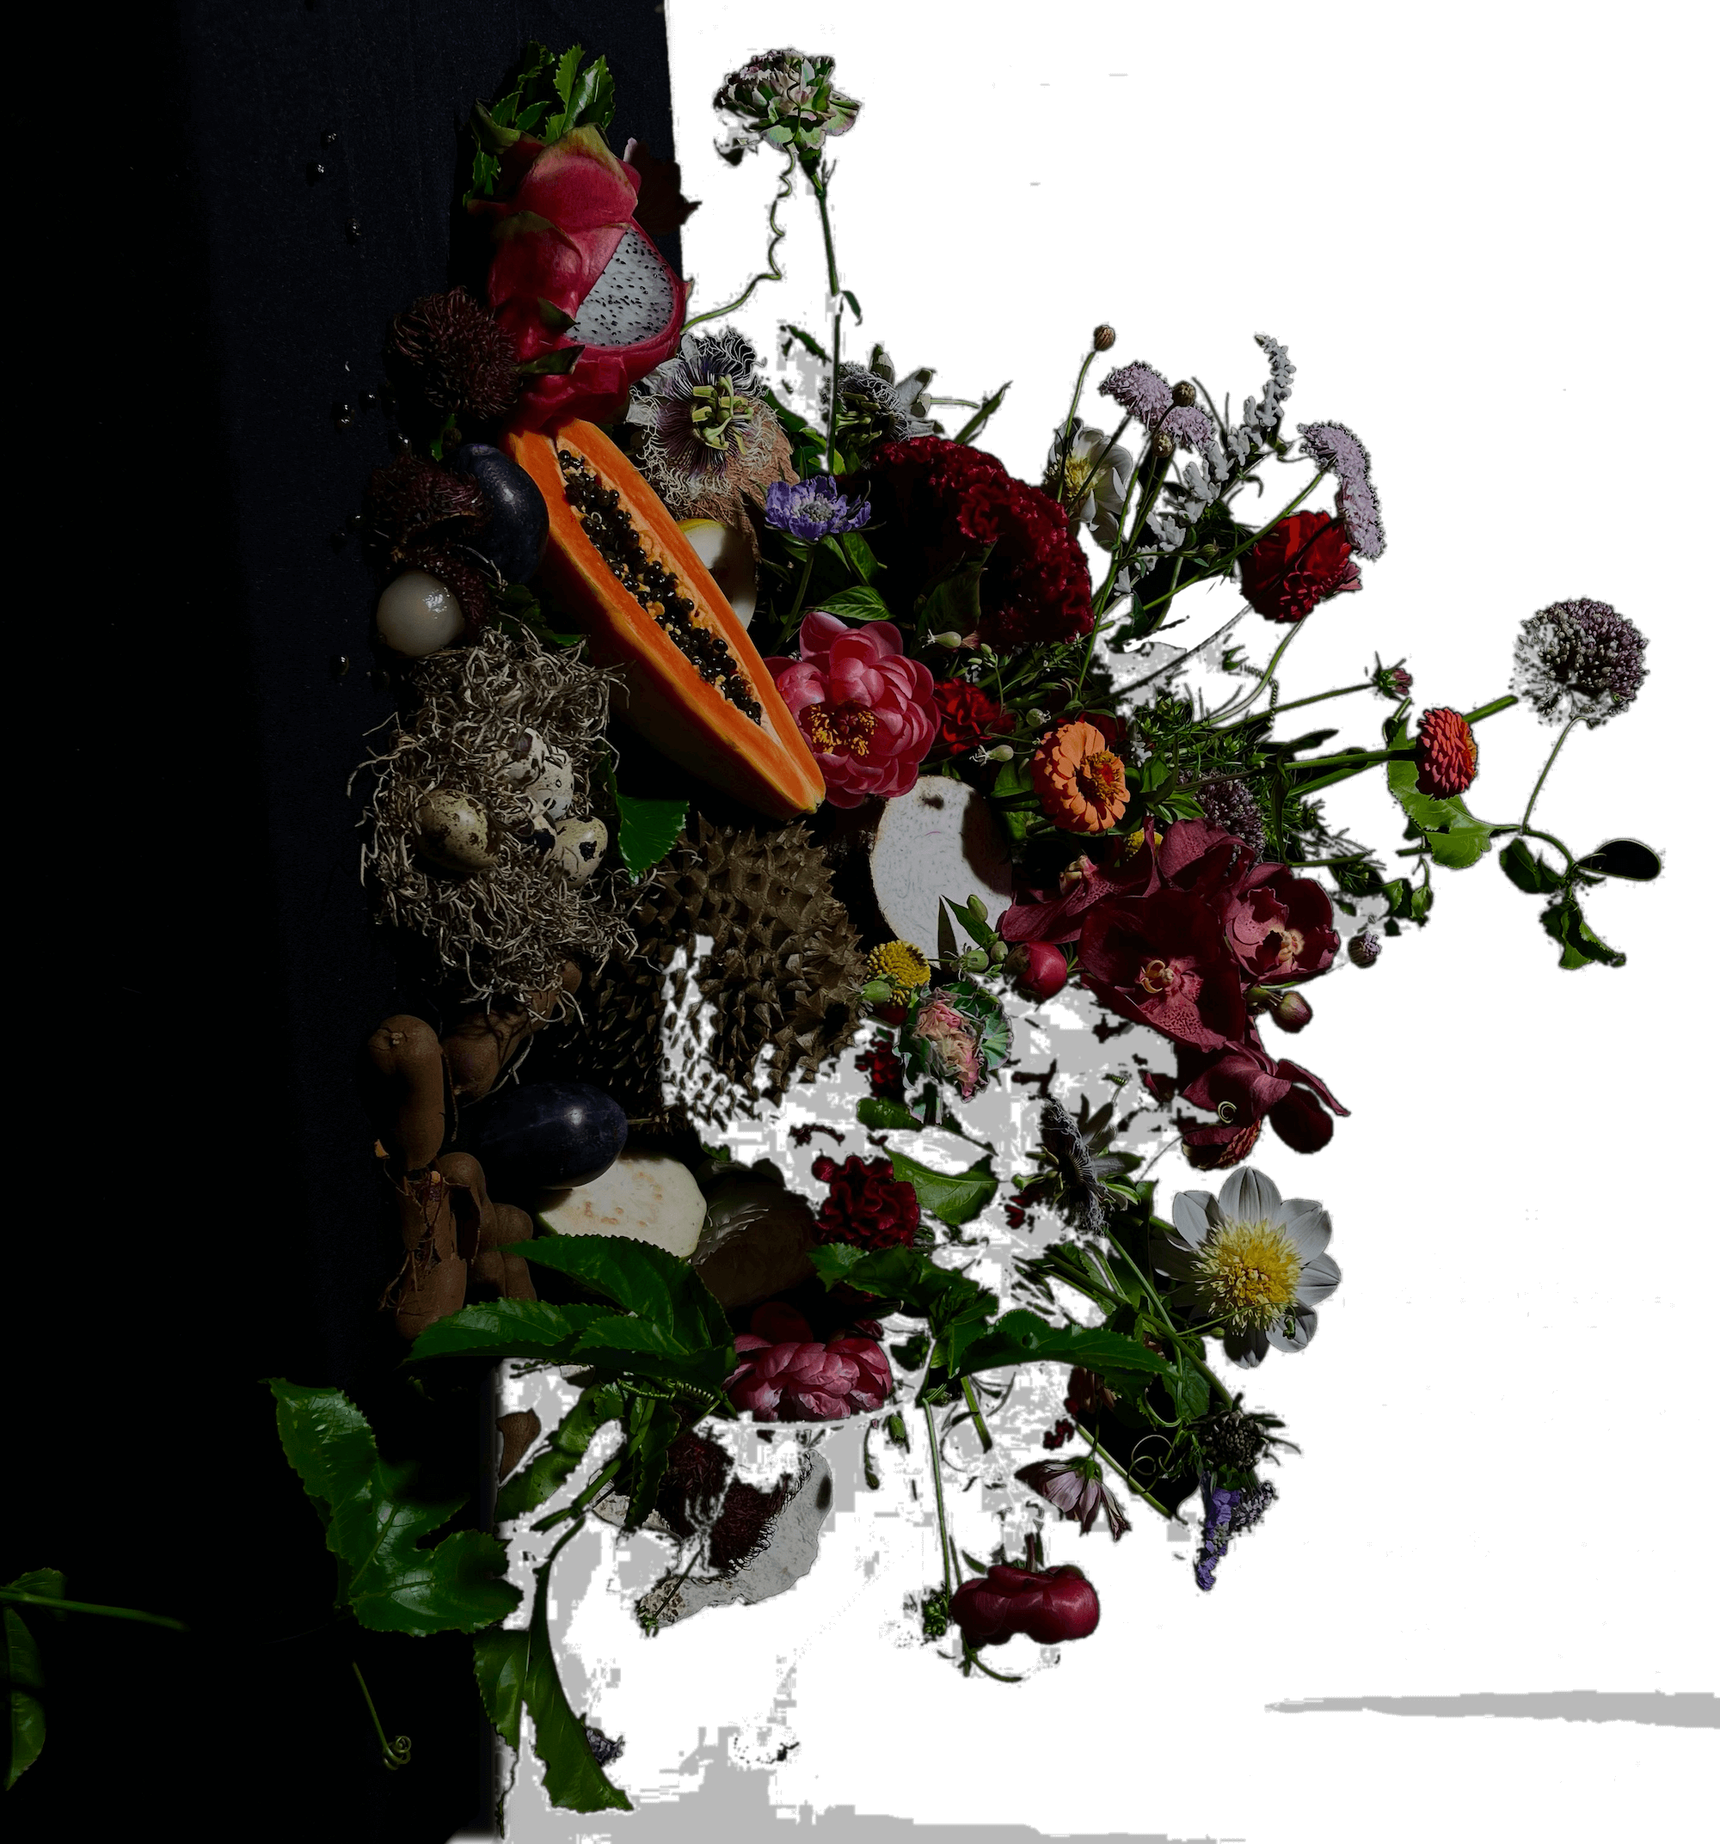
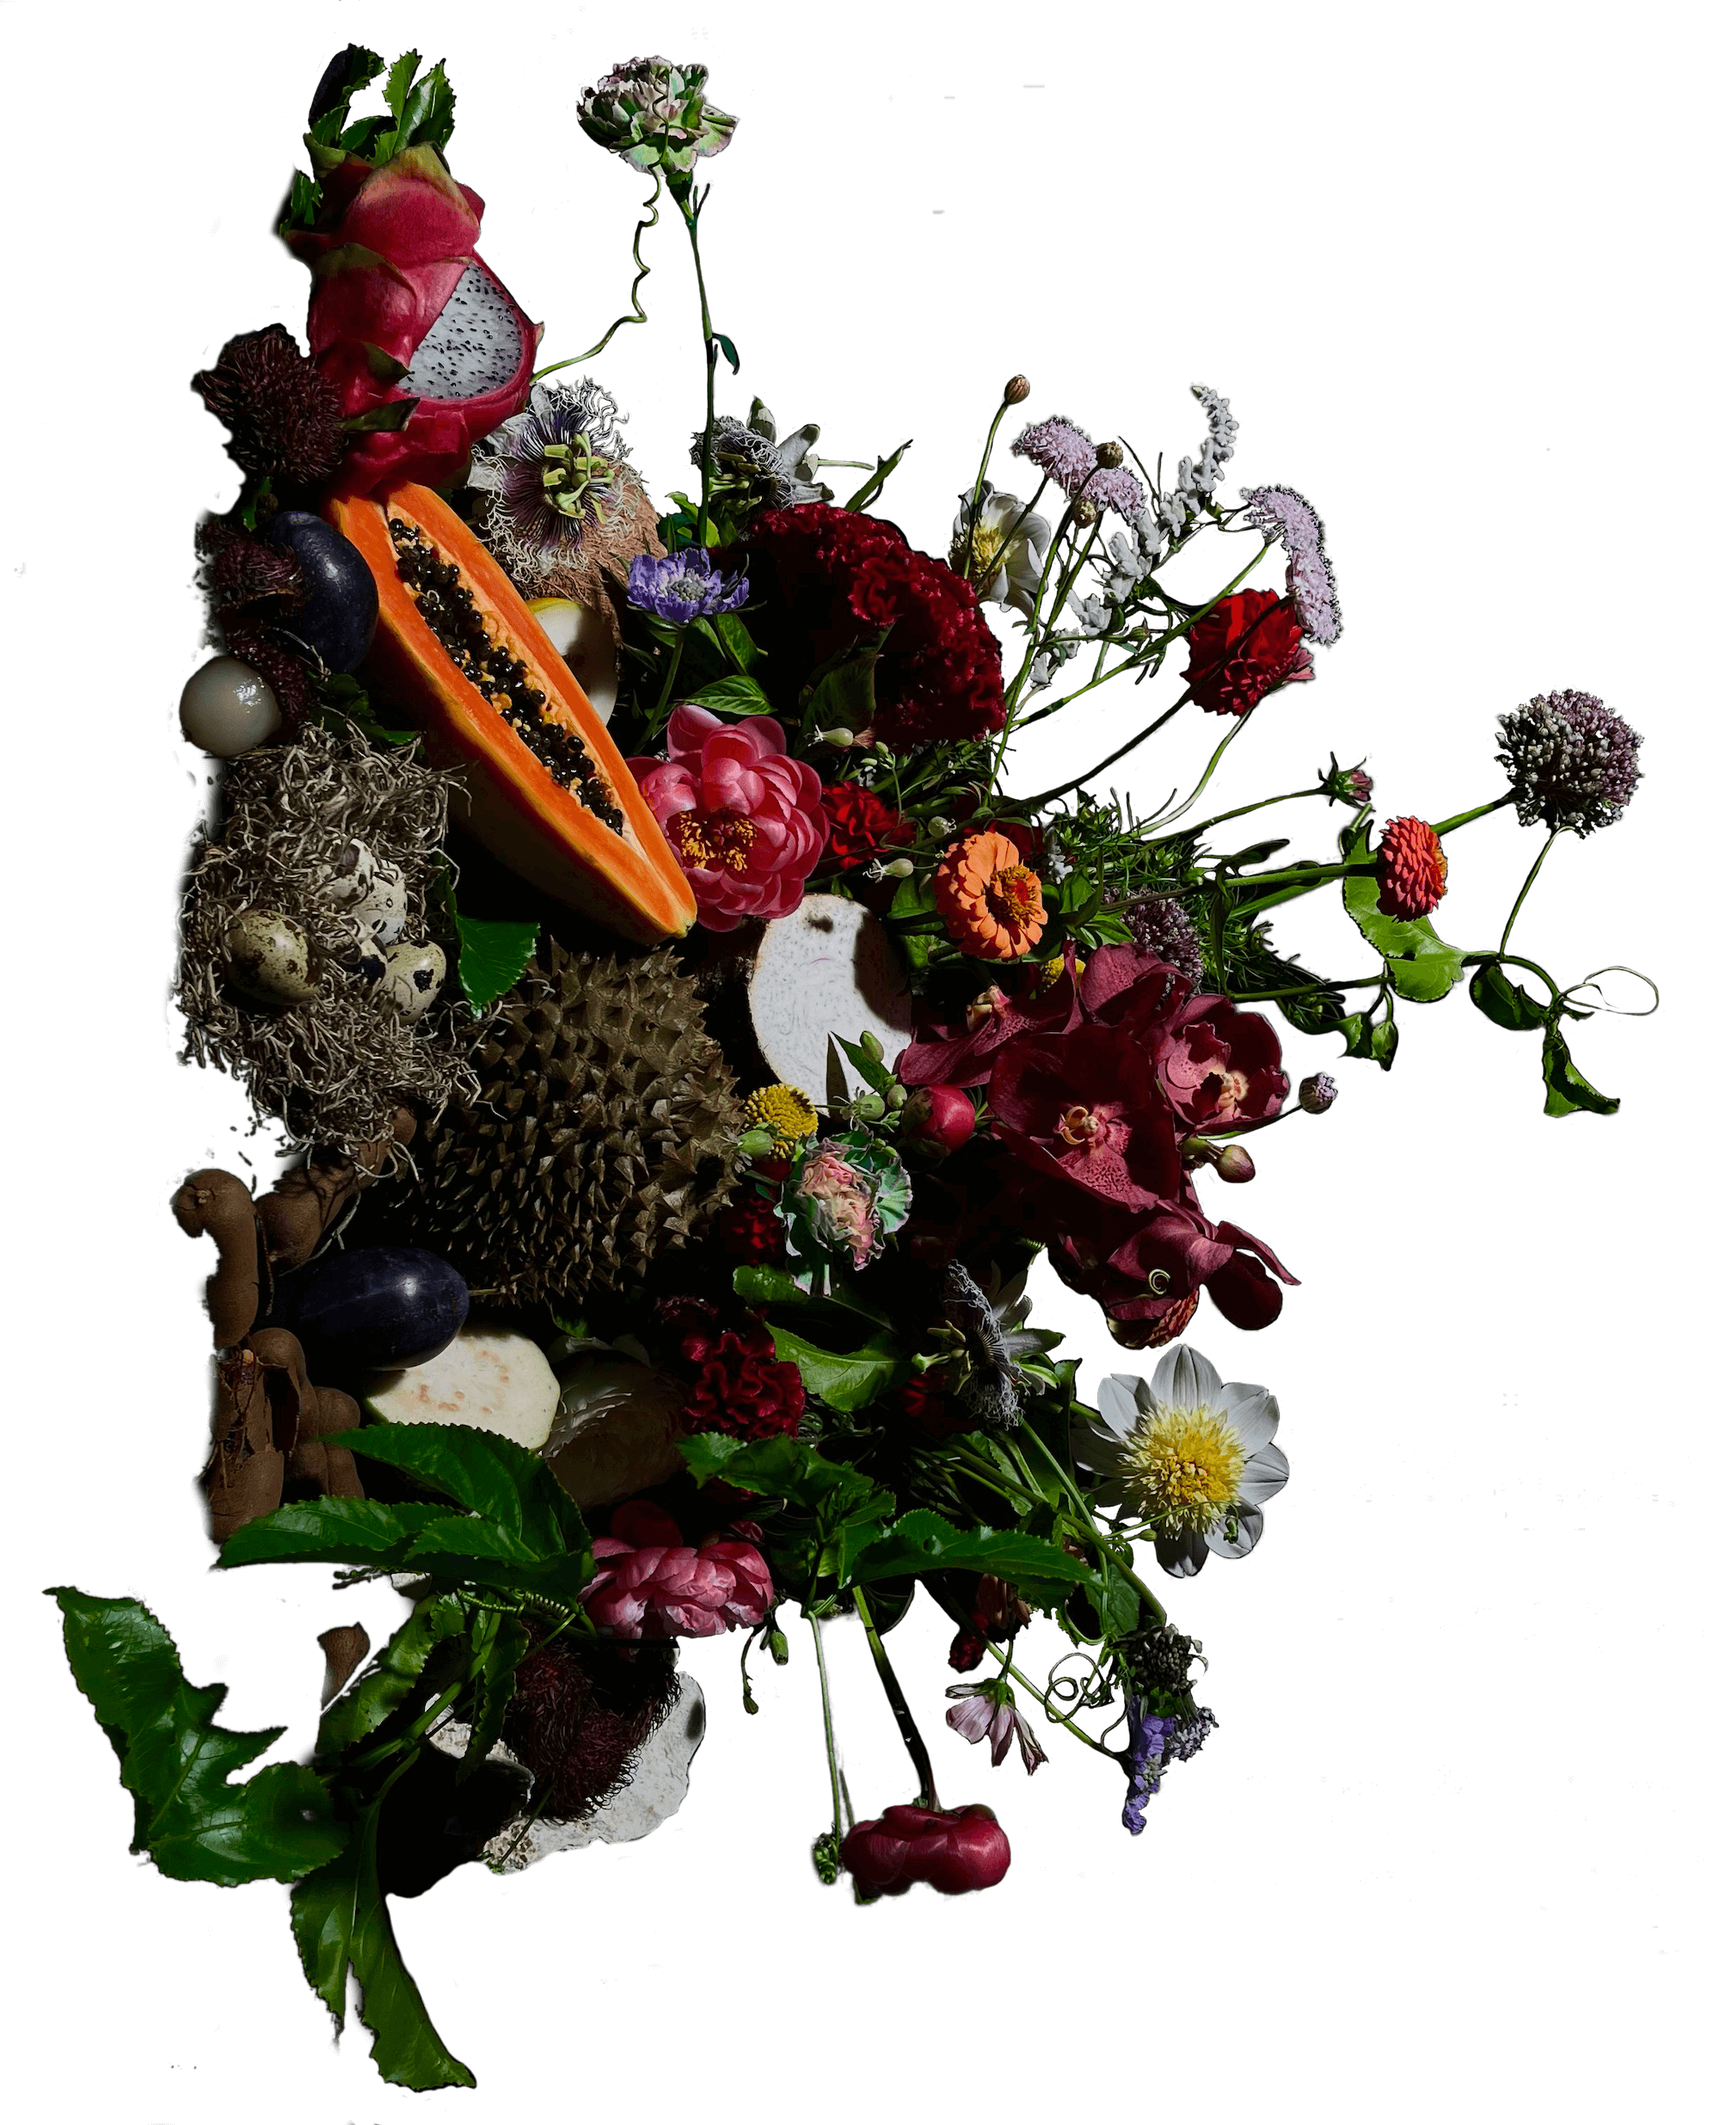
feat: New card images on homepage

diff --git a/src/app/page.tsx b/src/app/page.tsx
@@ -141,31 +141,31 @@ export default function Home() {
                       <img
                           src="/images/home-uo-homecard5.png"
                           alt=""
-                          className={`relative z-0 h-[80%] md:h-[80%] -translate-y-4 ${hovered ? "translate-x-[65px]" : "translate-x-[127px]"} rounded-md w-auto object-contain drop-shadow-md -ml-5 md:-ml-44 transition-transform duration-300 ease-out ${hovered ? "-translate-y-5 scale-110" : ""}`}
+                          className={`relative z-0 h-[80%] md:h-[80%] w-auto rounded-md object-contain drop-shadow-md transition-transform duration-300 ease-out -ml-5 md:-ml-44 -translate-y-4 ${hovered ? "translate-x-[85px] -translate-y-5 scale-101" : "translate-x-[127px]"}`}
                           loading="lazy"
                         />
                         <img
                           src="/images/home-uo-homecard4.png"
                           alt=""
-                          className={`relative z-5 h-[100%] md:h-[100%] translate-y-2 ${hovered ? "-translate-x-[90px]" : "-translate-x-[50px]"} rounded-md w-auto object-contain drop-shadow-md -mr-5 md:-mr-44 transition-transform duration-300 ease-out ${hovered ? "-translate-y-4 scale-110" : ""}`}
+                          className={`relative z-5 h-[100%] md:h-[100%] w-auto rounded-md object-contain drop-shadow-md transition-transform duration-300 ease-out -mr-5 md:-mr-44 translate-y-2 ${hovered ? "-translate-x-[70px] -translate-y-4 scale-105" : "-translate-x-[50px]"}`}
                           loading="lazy"
                         />
                         <img
                           src="/images/home-uo-homecard1.gif"
                           alt=""
-                          className={`relative z-10 h-[120%] md:h-[120%] translate-y-7 translate-x-[22px] rounded-md w-auto object-contain drop-shadow-md transition-transform duration-300 ease-out ${hovered ? "-translate-y-1 scale-125" : ""}`}
+                          className={`relative z-10 h-[120%] md:h-[120%] w-auto rounded-md object-contain drop-shadow-md transition-transform duration-300 ease-out translate-y-7 translate-x-[22px] ${hovered ? "-translate-y-1 scale-105" : ""}`}
                           loading="lazy"
                         />
                         <img
                           src="/images/home-uo-homecard2-1.png"
                           alt=""
-                          className={`relative z-5 h-[100%] md:h-[100%] translate-y-2 translate-x-[50px] rounded-md w-auto object-contain drop-shadow-md -ml-5 md:-ml-44 transition-transform duration-300 ease-out ${hovered ? "translate-x-[90px] -translate-y-4 scale-110" : ""}`}
+                          className={`relative z-5 h-[100%] md:h-[100%] w-auto rounded-md object-contain drop-shadow-md transition-transform duration-300 ease-out -ml-5 md:-ml-44 translate-y-2 translate-x-[50px] ${hovered ? "translate-x-[70px] -translate-y-4 scale-105" : ""}`}
                           loading="lazy"
                         />
                         <img
                           src="/images/home-uo-homecard6.png"
                           alt=""
-                          className={`relative z-0 h-[80%] md:h-[80%] -translate-y-4 translate-x-[50px] rounded-md w-auto object-contain drop-shadow-md -ml-5 md:-ml-44 transition-transform duration-300 ease-out ${hovered ? "translate-x-[110px] -translate-y-5 scale-110" : ""}`}
+                          className={`relative z-0 h-[80%] md:h-[80%] w-auto rounded-md object-contain drop-shadow-md transition-transform duration-300 ease-out -ml-5 md:-ml-44 -translate-y-4 translate-x-[50px] ${hovered ? "translate-x-[90px] -translate-y-5 scale-101" : ""}`}
                           loading="lazy"
                         />
                       </div>
@@ -192,19 +192,19 @@ export default function Home() {
                         <img
                           src="/images/hilton-hamptoninn.png"
                           alt=""
-                          className={`relative z-0 h-[80%] md:h-[80%] rounded-md w-auto object-contain drop-shadow-md -mr-5 md:-mr-44 -translate-y-3 transition-transform duration-300 ease-out ${hovered ? "-translate-x-[40px] -translate-y-4 scale-110" : ""}`}
+                          className={`relative z-0 h-[80%] md:h-[80%] rounded-md w-auto object-contain drop-shadow-md -mr-5 md:-mr-44 -translate-y-3 transition-transform duration-300 ease-out ${hovered ? "-translate-x-[25px] -translate-y-4 scale-105" : ""}`}
                           loading="lazy"
                         />
                         <img
                           src="/images/hilton-doubletree.png"
                           alt=""
-                          className={`relative z-10 h-[100%] md:h-[100%] rounded-md w-auto object-contain drop-shadow-md transition-transform duration-300 ease-out ${hovered ? "-translate-y-1 scale-110" : ""}`}
+                          className={`relative z-10 h-[100%] md:h-[100%] rounded-md w-auto object-contain drop-shadow-md transition-transform duration-300 ease-out ${hovered ? "-translate-y-1 scale-105" : ""}`}
                           loading="lazy"
                         />
                         <img
                           src="/images/hilton-embassysuites.png"
                           alt=""
-                          className={`relative z-0 h-[80%] md:h-[80%] rounded-md w-auto object-contain drop-shadow-md -ml-5 md:-ml-44 -translate-y-3 transition-transform duration-300 ease-out ${hovered ? "translate-x-[40px] -translate-y-4 scale-110" : ""}`}
+                          className={`relative z-0 h-[80%] md:h-[80%] rounded-md w-auto object-contain drop-shadow-md -ml-5 md:-ml-44 -translate-y-3 transition-transform duration-300 ease-out ${hovered ? "translate-x-[25px] -translate-y-4 scale-105" : ""}`}
                           loading="lazy"
                         />
                       </div>
@@ -260,7 +260,7 @@ export default function Home() {
                         <img
                           src="/images/ValFruit-test.png"
                           alt=""
-                          className={`relative z-0 h-[110%] md:h-[110%] rounded-md w-auto object-contain -ml-20 md:ml-100 -translate-y-3 transition-transform duration-500 ease-out ${hovered ? "translate-x-[40px] -translate-y-4 scale-120" : ""}`}
+                          className={`relative z-0 h-[120%] md:h-[120%] rounded-md w-auto object-contain -ml-20 md:ml-100 -translate-y-3 transition-transform duration-500 ease-out ${hovered ? "translate-x-[40px] -translate-y-4 scale-120" : ""}`}
                           loading="lazy"
                         />
                       </div>
